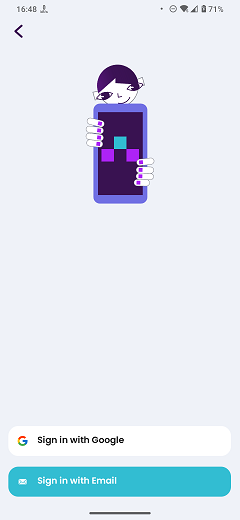
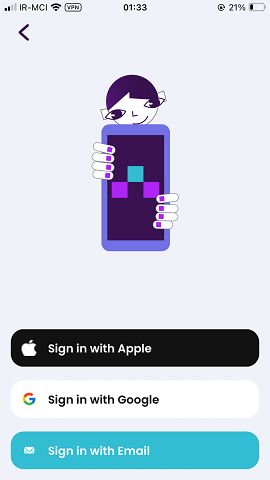
Added Onboarding Screenshots

diff --git a/index.html b/index.html
@@ -2,11 +2,11 @@
 <html lang="en">
 <head>
   <meta charset="UTF-8">
-  <title>WordUp Documentations</title>
+  <title>WordUp Docs</title>
   <link rel="icon" href="docs/_media/favicon.ico">
   <meta http-equiv="X-UA-Compatible" content="IE=edge,chrome=1" />
   <meta name="keywords" content="doc,wordup,testing,goodpractices,walkthrough,tips,geeks,geeksltd">
-  <meta name="description" content="WordUp Documentations">
+  <meta name="description" content="WordUp Docs">
   <meta name="viewport" content="width=device-width, user-scalable=no, initial-scale=1.0, maximum-scale=1.0, minimum-scale=1.0">
   <link rel="stylesheet" href="//unpkg.com/docsify/lib/themes/vue.css">
 </head>

diff --git a/docs/onboarding/FavouriteCharacters.md b/docs/onboarding/FavouriteCharacters.md
@@ -1,6 +1,6 @@
 # Favourite Characters
 
-
+![FavouriteCharacters](../_media/Onboarding/FavouriteCharacters.png)
 
 ### Frequency
 

diff --git a/docs/onboarding/SelectUILanguage.md b/docs/onboarding/SelectUILanguage.md
@@ -1,6 +1,6 @@
 # Select UI Language
 
-
+![SelectUILanguage](../_media/Onboarding/SelecUILanguage.png)
 
 ### Frequency
 

diff --git a/docs/onboarding/WordlistEstimate.md b/docs/onboarding/WordlistEstimate.md
@@ -1,6 +1,6 @@
 # Wordlist Estimate
 
-
+![WordlistEstimate](../_media/Onboarding/WordlistEstimate.png)
 
 ### Frequency
 

diff --git a/docs/onboarding/SignupWithEmail.md b/docs/onboarding/SignupWithEmail.md
@@ -1,6 +1,6 @@
 # Signup With Email
 
-
+![SignupWithEmail](../_media/Onboarding/SignupWithEmail.png)
 
 ### Frequency
 

diff --git a/docs/onboarding/OnboardingVideo.md b/docs/onboarding/OnboardingVideo.md
@@ -1,6 +1,6 @@
 # Onboarding Video
 
-
+![OnboardingVideo](../_media/Onboarding/OnboardingVideo.png)
 
 ### Frequency
 

diff --git a/docs/onboarding/PickProfessions.md b/docs/onboarding/PickProfessions.md
@@ -1,6 +1,6 @@
 # Pick Professions
 
-
+![PickProfessions](../_media/Onboarding/PickProfessions.png)
 
 ### Frequency
 

diff --git a/docs/onboarding/LearningGoal.md b/docs/onboarding/LearningGoal.md
@@ -1,6 +1,6 @@
 # Learning Goal
 
-
+![LearningGoal](../_media/Onboarding/LearningGoal.png)
 
 ### Frequency
 

diff --git a/docs/onboarding/PickTopics.md b/docs/onboarding/PickTopics.md
@@ -1,6 +1,6 @@
 # Pick Topics
 
-
+![PickTopics](../_media/Onboarding/PickTopics.png)
 
 ### Frequency
 

diff --git a/docs/onboarding/SignupPage.md b/docs/onboarding/SignupPage.md
@@ -1,6 +1,6 @@
 # Signup Page
 
-
+![SignupPage](../_media/Onboarding/SignupPage.png)
 
 ### Frequency
 

diff --git a/docs/onboarding/PickExams.md b/docs/onboarding/PickExams.md
@@ -1,6 +1,6 @@
 # Pick Exams
 
-
+![PickExams](../_media/Onboarding/PickExams.png)
 
 ### Frequency
 
